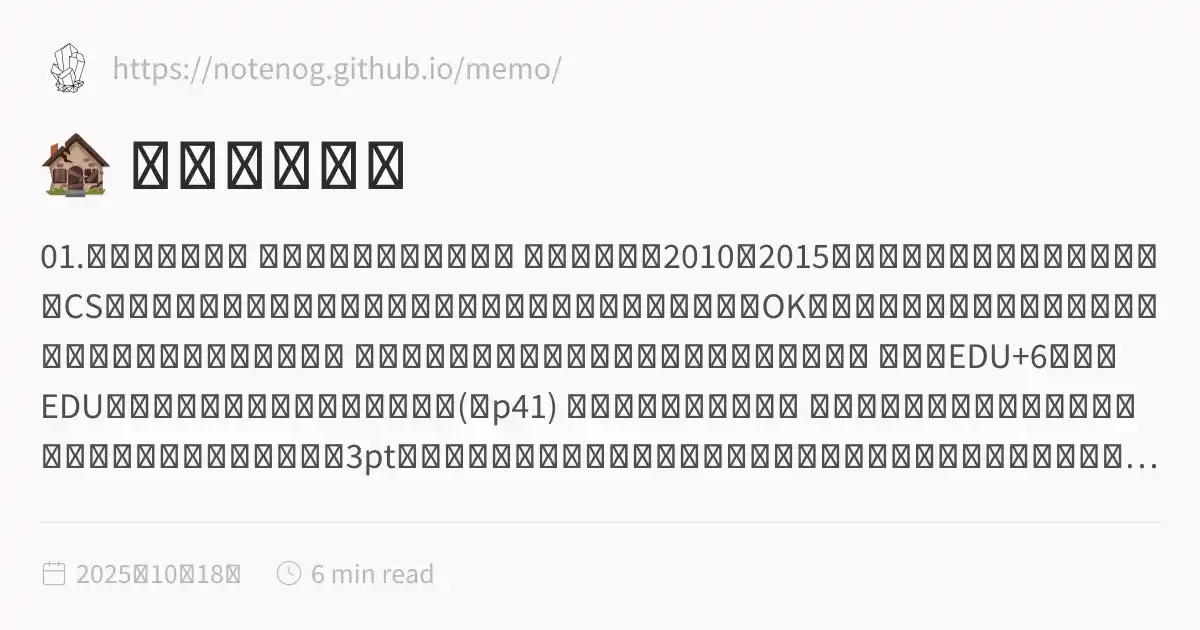
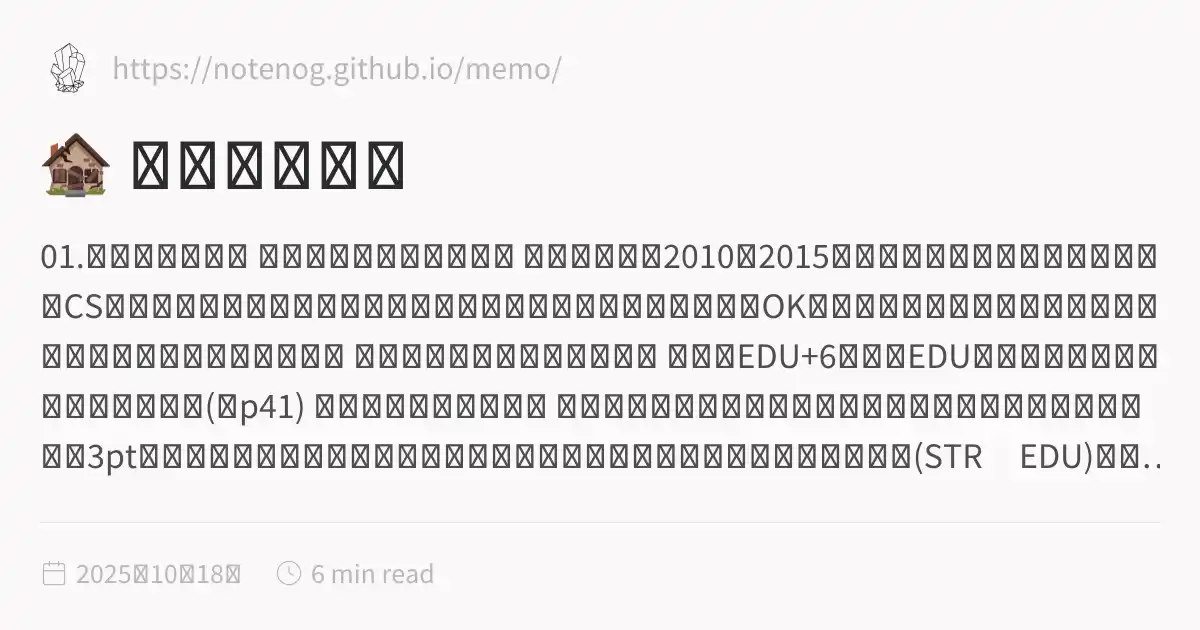
fix: Final push of clean assets with all content emitters disabled

Changed region(s): [[0.0308, 0.5429, 0.9867, 0.6635], [0.0617, 0.6937, 0.3392, 0.754], [0.74, 0.6937, 0.9558, 0.754]]

diff --git a/docs/inSANe_old/index.html b/docs/inSANe_old/index.html
@@ -116,6 +116,6 @@ pre:hover > .expand-button {
   padding: 0 12px;
   font-size: 14px;
 }
[2 lines of base64/hex data omitted]
 </script><script type="module">function f(i,e){if(!i)return;function r(o){o.target===this&&(o.preventDefault(),o.stopPropagation(),e())}function t(o){o.key.startsWith("Esc")&&(o.preventDefault(),e())}i?.addEventListener("click",r),window.addCleanup(()=>i?.removeEventListener("click",r)),document.addEventListener("keydown",t),window.addCleanup(()=>document.removeEventListener("keydown",t))}function y(i){for(;i.firstChild;)i.removeChild(i.firstChild)}var h=class{constructor(e,r){this.container=e;this.content=r;this.setupEventListeners(),this.setupNavigationControls(),this.resetTransform()}isDragging=!1;startPan={x:0,y:0};currentPan={x:0,y:0};scale=1;MIN_SCALE=.5;MAX_SCALE=3;cleanups=[];setupEventListeners(){let e=this.onMouseDown.bind(this),r=this.onMouseMove.bind(this),t=this.onMouseUp.bind(this),o=this.resetTransform.bind(this);this.container.addEventListener("mousedown",e),document.addEventListener("mousemove",r),document.addEventListener("mouseup",t),window.addEventListener("resize",o),this.cleanups.push(()=>this.container.removeEventListener("mousedown",e),()=>document.removeEventListener("mousemove",r),()=>document.removeEventListener("mouseup",t),()=>window.removeEventListener("resize",o))}cleanup(){for(let e of this.cleanups)e()}setupNavigationControls(){let e=document.createElement("div");e.className="mermaid-controls";let r=this.createButton("+",()=>this.zoom(.1)),t=this.createButton("-",()=>this.zoom(-.1)),o=this.createButton("Reset",()=>this.resetTransform());e.appendChild(t),e.appendChild(o),e.appendChild(r),this.container.appendChild(e)}createButton(e,r){let t=document.createElement("button");return t.textContent=e,t.className="mermaid-control-button",t.addEventListener("click",r),window.addCleanup(()=>t.removeEventListener("click",r)),t}onMouseDown(e){e.button===0&&(this.isDragging=!0,this.startPan={x:e.clientX-this.currentPan.x,y:e.clientY-this.currentPan.y},this.container.style.cursor="grabbing")}onMouseMove(e){this.isDragging&&(e.preventDefault(),this.currentPan={x:e.clientX-this.startPan.x,y:e.clientY-this.startPan.y},this.updateTransform())}onMouseUp(){this.isDragging=!1,this.container.style.cursor="grab"}zoom(e){let r=Math.min(Math.max(this.scale+e,this.MIN_SCALE),this.MAX_SCALE),t=this.content.getBoundingClientRect(),o=t.width/2,n=t.height/2,c=r-this.scale;this.currentPan.x-=o*c,this.currentPan.y-=n*c,this.scale=r,this.updateTransform()}updateTransform(){this.content.style.transform=`translate(${this.currentPan.x}px, ${this.currentPan.y}px) scale(${this.scale})`}resetTransform(){this.scale=1;let e=this.content.querySelector("svg");this.currentPan={x:e.getBoundingClientRect().width/2,y:e.getBoundingClientRect().height/2},this.updateTransform()}},C=["--secondary","--tertiary","--gray","--light","--lightgray","--highlight","--dark","--darkgray","--codeFont"],E;document.addEventListener("nav",async()=>{let e=document.querySelector(".center").querySelectorAll("code.mermaid");if(e.length===0)return;E||=await import("https://cdnjs.cloudflare.com/ajax/libs/mermaid/11.4.0/mermaid.esm.min.mjs");let r=E.default,t=new WeakMap;for(let n of e)t.set(n,n.innerText);async function o(){for(let s of e){s.removeAttribute("data-processed");let a=t.get(s);a&&(s.innerHTML=a)}let n=C.reduce((s,a)=>(s[a]=window.getComputedStyle(document.documentElement).getPropertyValue(a),s),{}),c=document.documentElement.getAttribute("saved-theme")==="dark";r.initialize({startOnLoad:!1,securityLevel:"loose",theme:c?"dark":"base",themeVariables:{fontFamily:n["--codeFont"],primaryColor:n["--light"],primaryTextColor:n["--darkgray"],primaryBorderColor:n["--tertiary"],lineColor:n["--darkgray"],secondaryColor:n["--secondary"],tertiaryColor:n["--tertiary"],clusterBkg:n["--light"],edgeLabelBackground:n["--highlight"]}}),await r.run({nodes:e})}await o(),document.addEventListener("themechange",o),window.addCleanup(()=>document.removeEventListener("themechange",o));for(let n=0;n<e.length;n++){let v=function(){let g=l.querySelector("#mermaid-space"),m=l.querySelector(".mermaid-content");if(!m)return;y(m);let w=c.querySelector("svg").cloneNode(!0);m.appendChild(w),l.classList.add("active"),g.style.cursor="grab",u=new h(g,m)},M=function(){l.classList.remove("active"),u?.cleanup(),u=null},c=e[n],s=c.parentElement,a=s.querySelector(".clipboard-button"),d=s.querySelector(".expand-button"),p=window.getComputedStyle(a),L=a.offsetWidth+parseFloat(p.marginLeft||"0")+parseFloat(p.marginRight||"0");d.style.right=`calc(${L}px + 0.3rem)`,s.prepend(d);let l=s.querySelector("#mermaid-container");if(!l)return;let u=null;d.addEventListener("click",v),f(l,M),window.addCleanup(()=>{u?.cleanup(),d.removeEventListener("click",v)})}});
 </script><script src="https://cdn.jsdelivr.net/npm/katex@0.16.11/dist/contrib/copy-tex.min.js" type="application/javascript"></script><script src="../postscript.js" type="module"></script></html>

diff --git a/docs/CoC/index.html b/docs/CoC/index.html
@@ -116,6 +116,6 @@ pre:hover > .expand-button {
   padding: 0 12px;
   font-size: 14px;
 }
[2 lines of base64/hex data omitted]
 </script><script type="module">function f(i,e){if(!i)return;function r(o){o.target===this&&(o.preventDefault(),o.stopPropagation(),e())}function t(o){o.key.startsWith("Esc")&&(o.preventDefault(),e())}i?.addEventListener("click",r),window.addCleanup(()=>i?.removeEventListener("click",r)),document.addEventListener("keydown",t),window.addCleanup(()=>document.removeEventListener("keydown",t))}function y(i){for(;i.firstChild;)i.removeChild(i.firstChild)}var h=class{constructor(e,r){this.container=e;this.content=r;this.setupEventListeners(),this.setupNavigationControls(),this.resetTransform()}isDragging=!1;startPan={x:0,y:0};currentPan={x:0,y:0};scale=1;MIN_SCALE=.5;MAX_SCALE=3;cleanups=[];setupEventListeners(){let e=this.onMouseDown.bind(this),r=this.onMouseMove.bind(this),t=this.onMouseUp.bind(this),o=this.resetTransform.bind(this);this.container.addEventListener("mousedown",e),document.addEventListener("mousemove",r),document.addEventListener("mouseup",t),window.addEventListener("resize",o),this.cleanups.push(()=>this.container.removeEventListener("mousedown",e),()=>document.removeEventListener("mousemove",r),()=>document.removeEventListener("mouseup",t),()=>window.removeEventListener("resize",o))}cleanup(){for(let e of this.cleanups)e()}setupNavigationControls(){let e=document.createElement("div");e.className="mermaid-controls";let r=this.createButton("+",()=>this.zoom(.1)),t=this.createButton("-",()=>this.zoom(-.1)),o=this.createButton("Reset",()=>this.resetTransform());e.appendChild(t),e.appendChild(o),e.appendChild(r),this.container.appendChild(e)}createButton(e,r){let t=document.createElement("button");return t.textContent=e,t.className="mermaid-control-button",t.addEventListener("click",r),window.addCleanup(()=>t.removeEventListener("click",r)),t}onMouseDown(e){e.button===0&&(this.isDragging=!0,this.startPan={x:e.clientX-this.currentPan.x,y:e.clientY-this.currentPan.y},this.container.style.cursor="grabbing")}onMouseMove(e){this.isDragging&&(e.preventDefault(),this.currentPan={x:e.clientX-this.startPan.x,y:e.clientY-this.startPan.y},this.updateTransform())}onMouseUp(){this.isDragging=!1,this.container.style.cursor="grab"}zoom(e){let r=Math.min(Math.max(this.scale+e,this.MIN_SCALE),this.MAX_SCALE),t=this.content.getBoundingClientRect(),o=t.width/2,n=t.height/2,c=r-this.scale;this.currentPan.x-=o*c,this.currentPan.y-=n*c,this.scale=r,this.updateTransform()}updateTransform(){this.content.style.transform=`translate(${this.currentPan.x}px, ${this.currentPan.y}px) scale(${this.scale})`}resetTransform(){this.scale=1;let e=this.content.querySelector("svg");this.currentPan={x:e.getBoundingClientRect().width/2,y:e.getBoundingClientRect().height/2},this.updateTransform()}},C=["--secondary","--tertiary","--gray","--light","--lightgray","--highlight","--dark","--darkgray","--codeFont"],E;document.addEventListener("nav",async()=>{let e=document.querySelector(".center").querySelectorAll("code.mermaid");if(e.length===0)return;E||=await import("https://cdnjs.cloudflare.com/ajax/libs/mermaid/11.4.0/mermaid.esm.min.mjs");let r=E.default,t=new WeakMap;for(let n of e)t.set(n,n.innerText);async function o(){for(let s of e){s.removeAttribute("data-processed");let a=t.get(s);a&&(s.innerHTML=a)}let n=C.reduce((s,a)=>(s[a]=window.getComputedStyle(document.documentElement).getPropertyValue(a),s),{}),c=document.documentElement.getAttribute("saved-theme")==="dark";r.initialize({startOnLoad:!1,securityLevel:"loose",theme:c?"dark":"base",themeVariables:{fontFamily:n["--codeFont"],primaryColor:n["--light"],primaryTextColor:n["--darkgray"],primaryBorderColor:n["--tertiary"],lineColor:n["--darkgray"],secondaryColor:n["--secondary"],tertiaryColor:n["--tertiary"],clusterBkg:n["--light"],edgeLabelBackground:n["--highlight"]}}),await r.run({nodes:e})}await o(),document.addEventListener("themechange",o),window.addCleanup(()=>document.removeEventListener("themechange",o));for(let n=0;n<e.length;n++){let v=function(){let g=l.querySelector("#mermaid-space"),m=l.querySelector(".mermaid-content");if(!m)return;y(m);let w=c.querySelector("svg").cloneNode(!0);m.appendChild(w),l.classList.add("active"),g.style.cursor="grab",u=new h(g,m)},M=function(){l.classList.remove("active"),u?.cleanup(),u=null},c=e[n],s=c.parentElement,a=s.querySelector(".clipboard-button"),d=s.querySelector(".expand-button"),p=window.getComputedStyle(a),L=a.offsetWidth+parseFloat(p.marginLeft||"0")+parseFloat(p.marginRight||"0");d.style.right=`calc(${L}px + 0.3rem)`,s.prepend(d);let l=s.querySelector("#mermaid-container");if(!l)return;let u=null;d.addEventListener("click",v),f(l,M),window.addCleanup(()=>{u?.cleanup(),d.removeEventListener("click",v)})}});
 </script><script src="https://cdn.jsdelivr.net/npm/katex@0.16.11/dist/contrib/copy-tex.min.js" type="application/javascript"></script><script src="../postscript.js" type="module"></script></html>

diff --git a/docs/CoC/CoC.html b/docs/CoC/CoC.html
@@ -1,5 +1,5 @@
 <!DOCTYPE html>
-<html lang="ja" dir="ltr"><head><title>🏚 ハウスルール</title><meta charset="utf-8"/><link rel="preconnect" href="https://fonts.googleapis.com"/><link rel="preconnect" href="https://fonts.gstatic.com"/><link rel="stylesheet" href="https://fonts.googleapis.com/css2?family=Schibsted Grotesk:wght@400;700&amp;family=Source Sans Pro:ital,wght@0,400;0,600;1,400;1,600&amp;family=IBM Plex Mono:wght@400;600&amp;display=swap"/><link rel="preconnect" href="https://cdnjs.cloudflare.com" crossorigin="anonymous"/><meta name="viewport" content="width=device-width, initial-scale=1.0"/><meta name="og:site_name" content="MEMO"/><meta property="og:title" content="🏚 ハウスルール"/><meta property="og:type" content="website"/><meta name="twitter:card" content="summary_large_image"/><meta name="twitter:title" content="🏚 ハウスルール"/><meta name="twitter:description" content="01.探索者について 【継続探索者での参加】 基本ルルブ、2010、2015の職業ベースから選択。ベースはCS内に記載下さい。職業ベースに囚われない技能振りの探索者もOKとしますが、基本的には職業ベースでとることを推奨します。 特徴表はベースにとらわれず２つまで適用可能。 年齢はEDU+6下限、EDU加齢ルール適用をお願いします。(基p41) 【新規探索者の作成】 能力値の一括振り直し、同ダイスステータス値の入れ替え・3pt移動可。上記の回数は良心の範囲内でお任せしますが、ステータス合計値(STREDU)の合計が80110に収まる程度が推奨目安です。 特徴表を採用する際は３回振ったうちから１..."/><meta property="og:description" content="01.探索者について 【継続探索者での参加】 基本ルルブ、2010、2015の職業ベースから選択。ベースはCS内に記載下さい。職業ベースに囚われない技能振りの探索者もOKとしますが、基本的には職業ベースでとることを推奨します。 特徴表はベースにとらわれず２つまで適用可能。 年齢はEDU+6下限、EDU加齢ルール適用をお願いします。(基p41) 【新規探索者の作成】 能力値の一括振り直し、同ダイスステータス値の入れ替え・3pt移動可。上記の回数は良心の範囲内でお任せしますが、ステータス合計値(STREDU)の合計が80110に収まる程度が推奨目安です。 特徴表を採用する際は３回振ったうちから１..."/><meta property="og:image:alt" content="01.探索者について 【継続探索者での参加】 基本ルルブ、2010、2015の職業ベースから選択。ベースはCS内に記載下さい。職業ベースに囚われない技能振りの探索者もOKとしますが、基本的には職業ベースでとることを推奨します。 特徴表はベースにとらわれず２つまで適用可能。 年齢はEDU+6下限、EDU加齢ルール適用をお願いします。(基p41) 【新規探索者の作成】 能力値の一括振り直し、同ダイスステータス値の入れ替え・3pt移動可。上記の回数は良心の範囲内でお任せしますが、ステータス合計値(STREDU)の合計が80110に収まる程度が推奨目安です。 特徴表を採用する際は３回振ったうちから１..."/><meta property="twitter:domain" content="https://notenog.github.io/memo/"/><meta property="og:url" content="https://https//notenog.github.io/memo/CoC/CoC"/><meta property="twitter:url" content="https://https//notenog.github.io/memo/CoC/CoC"/><link rel="icon" href="../static/icon.png"/><meta name="description" content="01.探索者について 【継続探索者での参加】 基本ルルブ、2010、2015の職業ベースから選択。ベースはCS内に記載下さい。職業ベースに囚われない技能振りの探索者もOKとしますが、基本的には職業ベースでとることを推奨します。 特徴表はベースにとらわれず２つまで適用可能。 年齢はEDU+6下限、EDU加齢ルール適用をお願いします。(基p41) 【新規探索者の作成】 能力値の一括振り直し、同ダイスステータス値の入れ替え・3pt移動可。上記の回数は良心の範囲内でお任せしますが、ステータス合計値(STREDU)の合計が80110に収まる程度が推奨目安です。 特徴表を採用する際は３回振ったうちから１..."/><meta name="generator" content="Quartz"/><link href="../index.css" rel="stylesheet" type="text/css" spa-preserve/><style>.expand-button {
+<html lang="ja" dir="ltr"><head><title>🏚 ハウスルール</title><meta charset="utf-8"/><link rel="preconnect" href="https://fonts.googleapis.com"/><link rel="preconnect" href="https://fonts.gstatic.com"/><link rel="stylesheet" href="https://fonts.googleapis.com/css2?family=Schibsted Grotesk:wght@400;700&amp;family=Source Sans Pro:ital,wght@0,400;0,600;1,400;1,600&amp;family=IBM Plex Mono:wght@400;600&amp;display=swap"/><link rel="preconnect" href="https://cdnjs.cloudflare.com" crossorigin="anonymous"/><meta name="viewport" content="width=device-width, initial-scale=1.0"/><meta name="og:site_name" content="MEMO"/><meta property="og:title" content="🏚 ハウスルール"/><meta property="og:type" content="website"/><meta name="twitter:card" content="summary_large_image"/><meta name="twitter:title" content="🏚 ハウスルール"/><meta name="twitter:description" content="01.探索者について 【継続探索者での参加】 基本ルルブ、2010、2015の職業ベースから選択。ベースはCS内に記載下さい。職業ベースに囚われない技能振りの探索者もOKとしますが、基本的には職業ベースでとることを推奨します。 特徴表は２つまで適用可能。 年齢はEDU+6下限、EDU加齢ルール適用をお願いします。(基p41) 【新規探索者の作成】 能力値の一括振り直し、同ダイスステータス値の入れ替え・3pt移動可。上記の回数は良心の範囲内でお任せしますが、ステータス合計値(STR～EDU)の合計が80～110に収まる程度が推奨目安です。 特徴表を採用する際は３回振ったうちから１～２つを自由に..."/><meta property="og:description" content="01.探索者について 【継続探索者での参加】 基本ルルブ、2010、2015の職業ベースから選択。ベースはCS内に記載下さい。職業ベースに囚われない技能振りの探索者もOKとしますが、基本的には職業ベースでとることを推奨します。 特徴表は２つまで適用可能。 年齢はEDU+6下限、EDU加齢ルール適用をお願いします。(基p41) 【新規探索者の作成】 能力値の一括振り直し、同ダイスステータス値の入れ替え・3pt移動可。上記の回数は良心の範囲内でお任せしますが、ステータス合計値(STR～EDU)の合計が80～110に収まる程度が推奨目安です。 特徴表を採用する際は３回振ったうちから１～２つを自由に..."/><meta property="og:image:alt" content="01.探索者について 【継続探索者での参加】 基本ルルブ、2010、2015の職業ベースから選択。ベースはCS内に記載下さい。職業ベースに囚われない技能振りの探索者もOKとしますが、基本的には職業ベースでとることを推奨します。 特徴表は２つまで適用可能。 年齢はEDU+6下限、EDU加齢ルール適用をお願いします。(基p41) 【新規探索者の作成】 能力値の一括振り直し、同ダイスステータス値の入れ替え・3pt移動可。上記の回数は良心の範囲内でお任せしますが、ステータス合計値(STR～EDU)の合計が80～110に収まる程度が推奨目安です。 特徴表を採用する際は３回振ったうちから１～２つを自由に..."/><meta property="twitter:domain" content="https://notenog.github.io/memo/"/><meta property="og:url" content="https://https//notenog.github.io/memo/CoC/CoC"/><meta property="twitter:url" content="https://https//notenog.github.io/memo/CoC/CoC"/><link rel="icon" href="../static/icon.png"/><meta name="description" content="01.探索者について 【継続探索者での参加】 基本ルルブ、2010、2015の職業ベースから選択。ベースはCS内に記載下さい。職業ベースに囚われない技能振りの探索者もOKとしますが、基本的には職業ベースでとることを推奨します。 特徴表は２つまで適用可能。 年齢はEDU+6下限、EDU加齢ルール適用をお願いします。(基p41) 【新規探索者の作成】 能力値の一括振り直し、同ダイスステータス値の入れ替え・3pt移動可。上記の回数は良心の範囲内でお任せしますが、ステータス合計値(STR～EDU)の合計が80～110に収まる程度が推奨目安です。 特徴表を採用する際は３回振ったうちから１～２つを自由に..."/><meta name="generator" content="Quartz"/><link href="../index.css" rel="stylesheet" type="text/css" spa-preserve/><style>.expand-button {
   position: absolute;
   display: flex;
   float: right;
@@ -121,29 +121,30 @@ pre:hover > .expand-button {
 <h3 id="継続探索者での参加">【継続探索者での参加】<a role="anchor" aria-hidden="true" tabindex="-1" data-no-popover="true" href="#継続探索者での参加" class="internal"><svg width="18" height="18" viewBox="0 0 24 24" fill="none" stroke="currentColor" stroke-width="2" stroke-linecap="round" stroke-linejoin="round"><path d="M10 13a5 5 0 0 0 7.54.54l3-3a5 5 0 0 0-7.07-7.07l-1.72 1.71"></path><path d="M14 11a5 5 0 0 0-7.54-.54l-3 3a5 5 0 0 0 7.07 7.07l1.71-1.71"></path></svg></a></h3>
 <ul>
 <li>基本ルルブ、2010、2015の職業ベースから選択。ベースはCS内に記載下さい。<br/>職業ベースに囚われない技能振りの探索者もOKとしますが、基本的には職業ベースでとることを推奨します。</li>
-<li>特徴表はベースにとらわれず２つまで適用可能。</li>
-<li>年齢はEDU+6下限、EDU加齢ルール適用をお願いします。(基p41)</li>
-</ul>
-<h3 id="新規探索者の作成">【新規探索者の作成】<a role="anchor" aria-hidden="true" tabindex="-1" data-no-popover="true" href="#新規探索者の作成" class="internal"><svg width="18" height="18" viewBox="0 0 24 24" fill="none" stroke="currentColor" stroke-width="2" stroke-linecap="round" stroke-linejoin="round"><path d="M10 13a5 5 0 0 0 7.54.54l3-3a5 5 0 0 0-7.07-7.07l-1.72 1.71"></path><path d="M14 11a5 5 0 0 0-7.54-.54l-3 3a5 5 0 0 0 7.07 7.07l1.71-1.71"></path></svg></a></h3>
-<ul>
-<li>能力値の一括振り直し、同ダイスステータス値の入れ替え・3pt移動可。<br/>上記の回数は良心の範囲内でお任せしますが、<u>ステータス合計値(STR<del>EDU)の合計が80</del>110に収まる程度</u>が推奨目安です。</li>
-<li>特徴表を採用する際は３回振ったうちから１～２つを自由に選択して可。</li>
+<li>特徴表は２つまで適用可能。</li>
 <li>年齢はEDU+6下限、EDU加齢ルール適用をお願いします。(基p41)</li>
 </ul>
 <br/>
+<h3 id="新規探索者の作成">【新規探索者の作成】<a role="anchor" aria-hidden="true" tabindex="-1" data-no-popover="true" href="#新規探索者の作成" class="internal"><svg width="18" height="18" viewBox="0 0 24 24" fill="none" stroke="currentColor" stroke-width="2" stroke-linecap="round" stroke-linejoin="round"><path d="M10 13a5 5 0 0 0 7.54.54l3-3a5 5 0 0 0-7.07-7.07l-1.72 1.71"></path><path d="M14 11a5 5 0 0 0-7.54-.54l-3 3a5 5 0 0 0 7.07 7.07l1.71-1.71"></path></svg></a></h3>
+<ul>
+<li>能力値の一括振り直し、同ダイスステータス値の入れ替え・3pt移動可。<br/>上記の回数は良心の範囲内でお任せしますが、<u>ステータス合計値(STR～EDU)の合計が80～110に収まる程度</u>が推奨目安です。</li>
+<li>特徴表を採用する際は３回振ったうちから１～２つを自由に選択してOK。</li>
+<li>年齢はEDU+6下限、EDU加齢ルール適用をお願いします。(基p41)</li>
+</ul>
+<p><br/><br/></p>
 <h1 id="02ハウスルール">02.ハウスルール<a role="anchor" aria-hidden="true" tabindex="-1" data-no-popover="true" href="#02ハウスルール" class="internal"><svg width="18" height="18" viewBox="0 0 24 24" fill="none" stroke="currentColor" stroke-width="2" stroke-linecap="round" stroke-linejoin="round"><path d="M10 13a5 5 0 0 0 7.54.54l3-3a5 5 0 0 0-7.07-7.07l-1.72 1.71"></path><path d="M14 11a5 5 0 0 0-7.54-.54l-3 3a5 5 0 0 0 7.07 7.07l1.71-1.71"></path></svg></a></h1>
 <h3 id="基本">【基本】<a role="anchor" aria-hidden="true" tabindex="-1" data-no-popover="true" href="#基本" class="internal"><svg width="18" height="18" viewBox="0 0 24 24" fill="none" stroke="currentColor" stroke-width="2" stroke-linecap="round" stroke-linejoin="round"><path d="M10 13a5 5 0 0 0 7.54.54l3-3a5 5 0 0 0-7.07-7.07l-1.72 1.71"></path><path d="M14 11a5 5 0 0 0-7.54-.54l-3 3a5 5 0 0 0 7.07 7.07l1.71-1.71"></path></svg></a></h3>
 <ul>
-<li>混乱を防ぐため、KPが「どうぞ」「いいよ」など促した後に技能ロールを行って下さい
-　促し前のロールは成功していても振り直しをお願いすることがあります</li>
-<li>「共有メモ」や「フリーテーブル」は自由に使用して下さい</li>
-<li>秘話でお送りした情報については、RPでのみ他探索者に共有出来るものとします</li>
-<li>イニシアティブ表の管理は基本的にPLさんのほうでお願いします</li>
+<li>混乱を防ぐため、KPが「どうぞ」「いいよ」など促した後に技能ロールを行って下さい<br/>促し前のロールは成功していても振り直しをお願いすることがあります。</li>
+<li>「共有メモ」や「フリーテーブル」は自由に使用して下さい。</li>
+<li>秘話でお送りした情報については、RPでのみ他探索者に共有出来るものとします。</li>
+<li>イニシアティブ表の管理は基本的にPLさんのほうでお願いします。</li>
 </ul>
+<br/>
 <h3 id="狂気と治療">【狂気と治療】<a role="anchor" aria-hidden="true" tabindex="-1" data-no-popover="true" href="#狂気と治療" class="internal"><svg width="18" height="18" viewBox="0 0 24 24" fill="none" stroke="currentColor" stroke-width="2" stroke-linecap="round" stroke-linejoin="round"><path d="M10 13a5 5 0 0 0 7.54.54l3-3a5 5 0 0 0-7.07-7.07l-1.72 1.71"></path><path d="M14 11a5 5 0 0 0-7.54-.54l-3 3a5 5 0 0 0 7.07 7.07l1.71-1.71"></path></svg></a></h3>
 <ul>
-<li>1d6ヶ月リアルタイム期間で換算します<br/>(例：ダイス結果が3、セッション最終日が1/1の場合　→　4/1までの期間)</li>
-<li>不定(長期の発狂)は持ち帰りとして処理します</li>
+<li>1d6ヶ月リアルタイム期間で換算します。<br/>(例：ダイス結果が3、セッション最終日が1/1の場合　→　4/1までの期間)</li>
+<li>不定(長期の発狂)は持ち帰りとして処理します。</li>
 <li>ただし不定期間内に新たなシナリオに参加する場合、<strong>内容に合わせてKPから技能的なデメリットを付与します。</strong><br/>一時的な後遺症のように扱うこと。</li>
 </ul>
 <h5 id="精神病院自宅治療にかかる際の処理">▼精神病院/自宅治療にかかる際の処理<a role="anchor" aria-hidden="true" tabindex="-1" data-no-popover="true" href="#精神病院自宅治療にかかる際の処理" class="internal"><svg width="18" height="18" viewBox="0 0 24 24" fill="none" stroke="currentColor" stroke-width="2" stroke-linecap="round" stroke-linejoin="round"><path d="M10 13a5 5 0 0 0 7.54.54l3-3a5 5 0 0 0-7.07-7.07l-1.72 1.71"></path><path d="M14 11a5 5 0 0 0-7.54-.54l-3 3a5 5 0 0 0 7.07 7.07l1.71-1.71"></path></svg></a></h5>
@@ -160,10 +161,10 @@ pre:hover > .expand-button {
 <li>応急手当+医学の複合ロール成功時：回復値に+1</li>
 <li>救急セットや適した処置が可能な状況であればロール時に補正</li>
 </ul>
-<p>[メモ　基本ルルブ参照]
-・応急手当/医学　どちらも1つの傷に１度までしか手当することはできない
-・複数の傷を負っていれば１つずつロールすることが出来る</p>
-<br/>
+<p>[メモ　基本ルルブ参照]<br/>
+・応急手当/医学　どちらも1つの傷に１度までしか手当することはできない。
+・複数の傷を負っていれば１つずつロールすることが出来る。</p>
+<p><br/><br/></p>
 <h1 id="03その他採用ルール">03.その他採用ルール<a role="anchor" aria-hidden="true" tabindex="-1" data-no-popover="true" href="#03その他採用ルール" class="internal"><svg width="18" height="18" viewBox="0 0 24 24" fill="none" stroke="currentColor" stroke-width="2" stroke-linecap="round" stroke-linejoin="round"><path d="M10 13a5 5 0 0 0 7.54.54l3-3a5 5 0 0 0-7.07-7.07l-1.72 1.71"></path><path d="M14 11a5 5 0 0 0-7.54-.54l-3 3a5 5 0 0 0 7.07 7.07l1.71-1.71"></path></svg></a></h1>
 <blockquote class="callout info is-collapsible is-collapsed" data-callout="info" data-callout-fold>
 <div class="callout-title">
@@ -179,7 +180,7 @@ pre:hover > .expand-button {
 </blockquote>
 <ol>
 <li>精神分析の補助手段として使う。催眠術のロールに成功した場合、その後の精神分析に＋25の補正を与える。</li>
-<li>苦痛を軽減する手段として使う。ただし成功するには、催眠術のロールに成功後、抵抗表で対象のPOW対POWの競い合いをしなければならない。</li>
+<li>苦痛を軽減する手段として使う。<br/>ただし成功するには、催眠術のロールに成功後、抵抗表で対象のPOW対POWの競い合いをしなければならない。</li>
 <li>ニセ情報を与える手段として使う　等</li>
 </ol>
 <br/>
@@ -199,7 +200,7 @@ pre:hover > .expand-button {
 <ul>
 <li>特徴が２つ未満のPCが対象。<br/>採用する場合はKPの用意した部屋にて特徴表を振って貰うか、振った際のログを提出して下さい。<br/>特徴の結果がそれまでのPCと矛盾が生じない物である場合のみ適用可能です。</li>
 </ul>
-<br/>
+<p><br/><br/><br/></p>
 <h2 id>【】</h2>
 <ul>
 <li></li>

diff --git a/content/CoC/CoC.md b/content/CoC/CoC.md
@@ -9,27 +9,30 @@ order: 1
 # 01.探索者について
 ### 【継続探索者での参加】
 * 基本ルルブ、2010、2015の職業ベースから選択。ベースはCS内に記載下さい。<br>職業ベースに囚われない技能振りの探索者もOKとしますが、基本的には職業ベースでとることを推奨します。
-* 特徴表はベースにとらわれず２つまで適用可能。
-* 年齢はEDU+6下限、EDU加齢ルール適用をお願いします。(基p41)
-
-### 【新規探索者の作成】
-* 能力値の一括振り直し、同ダイスステータス値の入れ替え・3pt移動可。<br>上記の回数は良心の範囲内でお任せしますが、<u>ステータス合計値(STR~EDU)の合計が80~110に収まる程度</u>が推奨目安です。
-* 特徴表を採用する際は３回振ったうちから１～２つを自由に選択して可。
+* 特徴表は２つまで適用可能。
 * 年齢はEDU+6下限、EDU加齢ルール適用をお願いします。(基p41)
 
 <br>
 
+### 【新規探索者の作成】
+* 能力値の一括振り直し、同ダイスステータス値の入れ替え・3pt移動可。<br>上記の回数は良心の範囲内でお任せしますが、<u>ステータス合計値(STR～EDU)の合計が80～110に収まる程度</u>が推奨目安です。
+* 特徴表を採用する際は３回振ったうちから１～２つを自由に選択してOK。
+* 年齢はEDU+6下限、EDU加齢ルール適用をお願いします。(基p41)
+
+<br><br>
+
 # 02.ハウスルール
 ### 【基本】
-* 混乱を防ぐため、KPが「どうぞ」「いいよ」など促した後に技能ロールを行って下さい
-　促し前のロールは成功していても振り直しをお願いすることがあります
-* 「共有メモ」や「フリーテーブル」は自由に使用して下さい
-* 秘話でお送りした情報については、RPでのみ他探索者に共有出来るものとします
-* イニシアティブ表の管理は基本的にPLさんのほうでお願いします
+* 混乱を防ぐため、KPが「どうぞ」「いいよ」など促した後に技能ロールを行って下さい<br>促し前のロールは成功していても振り直しをお願いすることがあります。
+* 「共有メモ」や「フリーテーブル」は自由に使用して下さい。
+* 秘話でお送りした情報については、RPでのみ他探索者に共有出来るものとします。
+* イニシアティブ表の管理は基本的にPLさんのほうでお願いします。
+
+<br>
 
 ### 【狂気と治療】
-* 1d6ヶ月リアルタイム期間で換算します<br>(例：ダイス結果が3、セッション最終日が1/1の場合　→　4/1までの期間)
-* 不定(長期の発狂)は持ち帰りとして処理します
+* 1d6ヶ月リアルタイム期間で換算します。<br>(例：ダイス結果が3、セッション最終日が1/1の場合　→　4/1までの期間)
+* 不定(長期の発狂)は持ち帰りとして処理します。
 * ただし不定期間内に新たなシナリオに参加する場合、**内容に合わせてKPから技能的なデメリットを付与します。**<br>一時的な後遺症のように扱うこと。
 
 ##### ▼精神病院/自宅治療にかかる際の処理
@@ -45,11 +48,11 @@ order: 1
 * 応急手当+医学の複合ロール成功時：回復値に+1
 * 救急セットや適した処置が可能な状況であればロール時に補正
 
-[メモ　基本ルルブ参照]
-・応急手当/医学　どちらも1つの傷に１度までしか手当することはできない
-・複数の傷を負っていれば１つずつロールすることが出来る
+[メモ　基本ルルブ参照]<br>
+・応急手当/医学　どちらも1つの傷に１度までしか手当することはできない。
+・複数の傷を負っていれば１つずつロールすることが出来る。
 
-<br>
+<br><br>
 
 # 03.その他採用ルール
 > [!info]- KPとしては面白いのでやってみたいが、シナリオ的に問題ない事を前提に、<br>参加PL全員の同意を得られた時のみ採用するルールを記載します。<br>ただし別卓でその探索者は参加出来なくなるかもしれない事を留意して下さい。<br>
@@ -59,7 +62,7 @@ order: 1
 ### 【技能〈ヒプシーノス(催眠術)〉】
 > 基本ルルブ p150参照／一部抜粋
 1. 精神分析の補助手段として使う。催眠術のロールに成功した場合、その後の精神分析に＋25の補正を与える。
-2. 苦痛を軽減する手段として使う。ただし成功するには、催眠術のロールに成功後、抵抗表で対象のPOW対POWの競い合いをしなければならない。
+2. 苦痛を軽減する手段として使う。<br>ただし成功するには、催眠術のロールに成功後、抵抗表で対象のPOW対POWの競い合いをしなければならない。
 3. ニセ情報を与える手段として使う　等
 
 <br>
@@ -76,7 +79,7 @@ order: 1
 * 特徴が２つ未満のPCが対象。<br>採用する場合はKPの用意した部屋にて特徴表を振って貰うか、振った際のログを提出して下さい。<br>特徴の結果がそれまでのPCと矛盾が生じない物である場合のみ適用可能です。
 
 
-<br>
+<br><br><br>
 
 ## 【】
 * 
